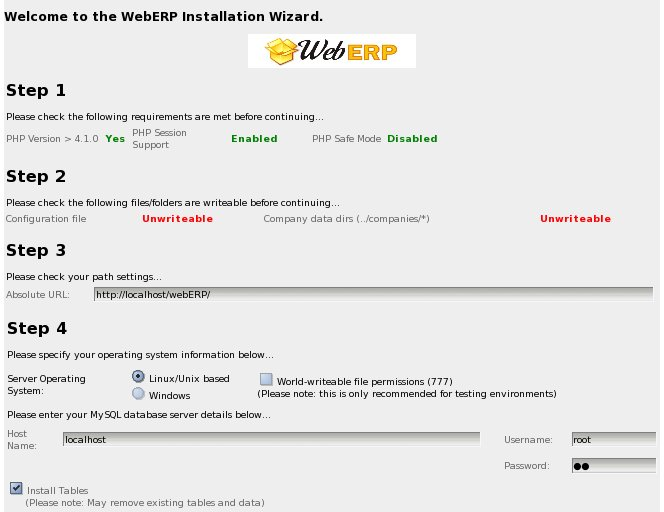
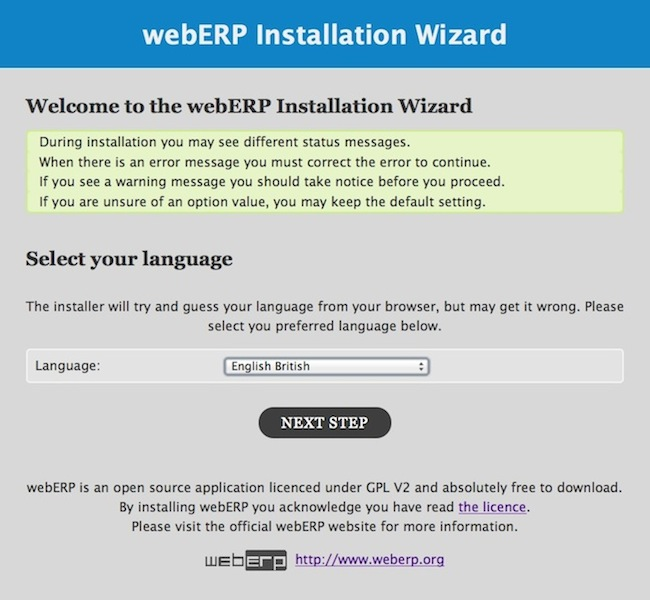
Update the Manual - Using the webERP Installer - rework of some text to match new installer, and updated screen shots.
git-svn-id: http://svn.code.sf.net/p/web-erp/code/trunk@6172 09516a42-71f9-43be-811f-9b821cf0d246

diff --git a/doc/Manual/ManualGettingStarted.html b/doc/Manual/ManualGettingStarted.html
@@ -39,37 +39,48 @@
 
 <h2>Using the webERP Installer</h2>
 
-<p>Assuming that a web server with PHP functionality is operational and a MySQL database server is available either on the same machine or on the network and that the web-server is running under a user that is able to write to the webERP installation directory then a new installation can proceed.</p>
-
-<ul>
-    <li>An installation must first copy the scripts to a directory under the web-server's document root directory. Then from a browser enter the URL for the new webERP directory and the installer screen will display:</li>
+<p>A new installation of webERP requires the following to start:</p>
+    <ul>
+        <li>A functioning web server running a minimum of PHP version 5.1</li>
+        <li>A MySQL database server available either on the same machine or on the network</li>
+        <li>The web server is running under a user that is able to write to the webERP web directory</li>
+        <li>The database user must have privileges to create a database and tables</li>
+    </ul>
+<ol>
+    <li>Copy all of the downloaded webERP files to a directory under the web server's document root directory. At this point there should be no 'config.php' file in the webERP directory.</li>
+    <li>Enter the URL for the new webERP directory into your web browser, and the installer welcome screen will display:</li>
 
     <li style="list-style: none; display: inline">
         <p align="center"><img src="images/Installer_1.jpg"></p>
     </li>
 
-    <li>The installer checks that all the pre-requistes are met for an installation. You will note from the screen shot above that this installation does not have sufficient privileges to install webERP because the web-server is unable to write to the webERP directory. <b>It is first necessary to change the permissions on the directory where webERP is installed to ensure that the user that the web-server runs as is able to write a new configuration file to the web space.</b> Cpanel and Plesk have facilities to enable this change to the permissions. Any messages on this screen displayed in red need to be resolved before the installation can proceed. Do not attempt to run the installer while red messages persist.</li>
+    <li>The installer welcome screen provides information on the type of messages you might receive during installation. At this page, you must also select your preferred language from the drop down selection box. Click on Next Step to go to the next phase of installation.</li>
+    <li style="list-style: none; display: inline">
+        <p align="center"><img src="images/Installer_1a.jpg"></p>
+    </li>
 
-    <li>Many of the fields required will be populated correctly by default - but all entries should be reviewed to ensure that they are correct. The installer will not be able to determine the host (computer) where the mysql database server is installed and this must be entered.</li>
-
-    <li>The user name and the password to the mysql database server are also required.</li>
-
+    <li>The installer checks that all the pre-requistes are met for an installation. You will note from the screen shot above that this installation does not have sufficient privileges to install webERP because the web server is unable to write to the webERP directory. <b>It is necessary to change the permissions on the directory where webERP is installed to ensure that the user that the web-server runs as is able to write a new configuration file to the web space.</b> Cpanel and Plesk have facilities to enable this change to the permissions. Any error messages displayed in red need to be resolved before the installation can proceed. Do not attempt to run the installer while red messages persist. Fix the error and then click on Check Again to restart from the prior step.</li>
     <li style="list-style: none; display: inline">
         <p align="center"><img src="images/Installer_2.jpg"></p>
     </li>
+    <li>If your web server fulfills all requirements for the installation, clicking on Next Step will display the Database Settings screen. Many of the fields required will be populated correctly by default - but all entries should be reviewed to ensure that they are correct. The installer will not be able to determine the host (computer) where the mysql database server is installed and this must be entered. Help appears when you click into an input field.</li>
 
-    <li>The name of the company entered in the installer screen will become the name of the mysql database created. Perhaps an abbreviated name for the company without spaces is ideal. weberpdemo is the name of the weberpdemo database and that is a good place to test webERP functionality. You should change this to the name of your company in a live enviroment.</li>
+    <li>The user name and the password to the mysql database server are also required. The mysql database user must have permission to create a database and tables. Once the required information is entered and checked, click on Next Screen to continue.</li>
 
-    <li>It is possible to install the demo database rather than the new empty database to use for a new installation by clicking the check box.</li>
+    <li style="list-style: none; display: inline">
+        <p align="center"><img src="images/Installer_3.jpg"></p>
+    </li>
 
+    <li>The next installer screen displays Company Settings, Options and Administrator Account settings. The name of the company entered in the installer screen will be used in the log in screen and in various reports and screens in your final webERP instsallation.</li>
+    <li>The Chart of Accounts will be loaded into your webERP installation as a set of starter accounts. T There is a larger file but this may result in errors as your mysql server must be able to handle larger packet sizes. Leave the default selection of 'weberp-new.sql' if in any doubt as it is smaller and should load with default mysql settings.</li>
+     <li>The logo for the business used on invoices and statments, orders etc. can be uploaded to the appropriate place on the web-server by selecting it on the installer screen. The logo should be a .jpg file and just a small image no more than 170 px accross and 80 pixels high.</li>
     <li>The time-zone is important if your installation is to display the correct time on the local browsers in the country where the business is domiciled. e.g. it is possible to use a US web-server, and operate the business from France. If no entry was entered for the time-zone then the browser would display the time where the web-server was (in the USA) but it is more appropriate to display the time where the business operates from. It is possible to select from any of the PHP defined time-zones.</li>
+    <li>The Installation Option section enables you to choose to install the demo database in addition to your own Company database. This will provide you with a demo company loaded with some data to test with.</li>
 
-    <li>The logo for the business used on invoices and statments, orders etc. can be uploaded to the appropriate place on the web-server by selecting it on the installer screen. The logo should be a .jpg file and just a small image no more than 170 px accross and 80 pixels high.</li>
+    <li>Finally the webERP user Administrator account option section enables you to input an email address and choose a new password for the default 'admin' account.</li>
 
-    <li>Finally the webERP user &quot;admin&quot; is created, and the password for this user needs to be defined from entries on the installer screen. It is also possible to specify your email address which is stored in the database.</li>
-</ul>
-
-<p>Hitting the install webERP button will then create the database for the company with the user admin given the password details and provide a fresh webERP installation from which to start the configuration of the company, see below.</p>
+<li>Click on the INSTALL button to finalise installation. This might take a while as the installer will create required databases, create a special directory for your webERP install in the 'companies' directory, and writes out the webERP configuration file, config.php.  Wait until the login screen appears. You now have a fresh webERP installation from which to start the configuration of the company, see below.</li>
+<p> </p>
 
 <div class="floatright">
     <a class="minitext" href="#top">⬆ Top</a>

diff --git a/install/index.php b/install/index.php
@@ -129,6 +129,10 @@
 			$Language = 'en_US.utf8';
 			$DefaultLanguage = 'en_US.utf8';
 		}
+		//This is the first step - let us initialise some variables (esp. important if installer is rerun)
+		$DatabaseName = '';
+		$DefaultDatabase = '';
+
 	}else{
 
 		$Language = $_POST['Language'];
@@ -454,8 +458,6 @@
 						prnMsg(_('Failed to create database '.$DatabaseName.'  and the error is '.' '.mysql_error($Db)),'error');
 
 					}
-
-
 				}
 				PopulateSQLData($NewSQLFile,false,$Db,$DBConnectType,$DatabaseName);
 				DBUpdate($Db,$DatabaseName,$DBConnectType,$AdminPassword,$Email,$UserLanguage,$CompanyName);
@@ -470,7 +472,6 @@
 						prnMsg(_('Failed to create database weberpdemo and the error is '.' '.mysql_error($Db)),'error');
 
 					}
-
 
 				}
 				PopulateSQLData(false,$DemoSQLFile,$Db,$DBConnectType,'weberpdemo');
@@ -896,7 +897,7 @@ function DbConfig($Language,$MysqlExt = FALSE){//The screen for users to input m
             <legend><?php echo _('Database settings'); ?></legend>
             <div class="page_help_text">
                 <p>
-                    <?php echo _('Please enter your MySQL Database information below. The database name is also used at log in time to choose the company for use.'); ?><br />
+                    <?php echo _('Please enter your MySQL Database information below.'); ?><br />
                     <span><?php echo _('* Denotes required field'); ?></span>
                 </p>
             </div>
@@ -919,7 +920,7 @@ function DbConfig($Language,$MysqlExt = FALSE){//The screen for users to input m
                 <li>
                     <label for="UserName"><?php echo _('Database User Name'); ?>: </label>
                     <input type="text" name="UserName" id="UserName" value="root" placeholder="<?php echo _('A valid database user name'); ?>" maxlength="16" required="true" />&#160;
-                    <span><?php echo _('Must be a user that has permission to create a database.'); ?></span>
+                    <span><?php echo _('Must be a user that has permission to create a database'); ?></span>
                 </li>
                 <li>
                     <label for="Password"><?php echo _('Password'); ?>: </label>

diff --git a/includes/Login.php b/includes/Login.php
@@ -46,7 +46,7 @@ if (get_magic_quotes_gpc()){
 			echo _('Company') . '<input type="text" name="CompanyNameField"  autofocus="autofocus" required="required" value="' . $DefaultCompany . '" />';
 		} else {
 			// Show selection box ($AllowCompanySelectionBox == 'ShowSelectionBox')
-			echo _('Company');
+			echo _('Company:').'<br />';
 			echo '<select name="CompanyNameField">';
 			if (isset($CompanyList) && is_array($CompanyList)) {
                 foreach ($CompanyList as $key => $CompanyEntry){
